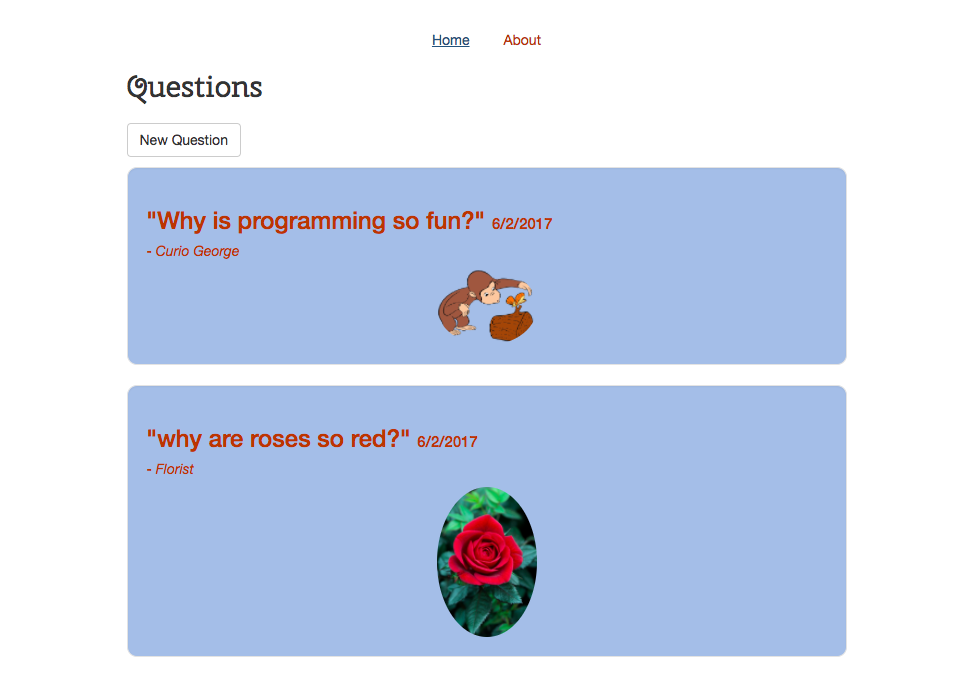
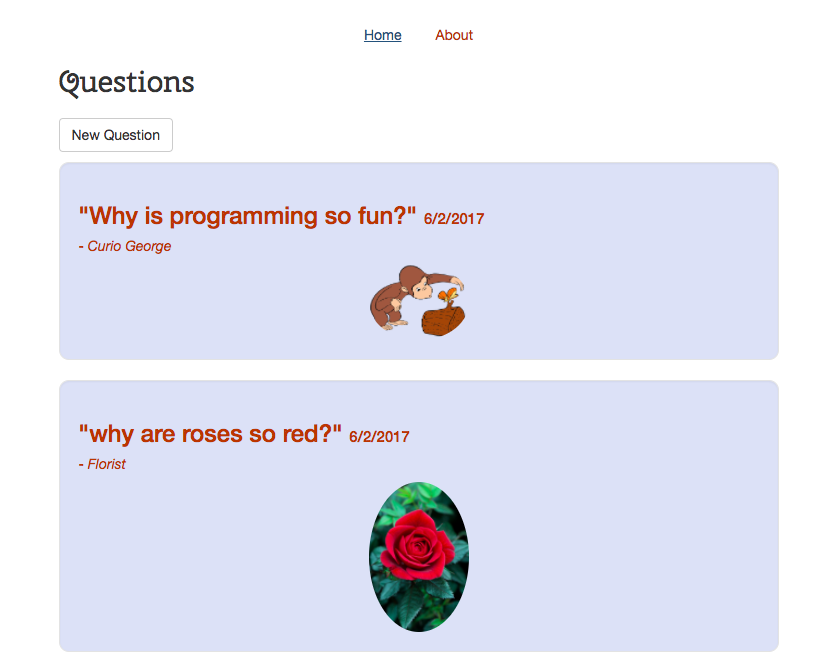
edit styling and screenshots

diff --git a/app/styles/app.css b/app/styles/app.css
@@ -53,7 +53,7 @@ body, html {
 }
 
 .well {
-  background: rgb(164, 190, 232);
+  background: rgb(220, 225, 247);
   border-radius: 10px;
 }
 
